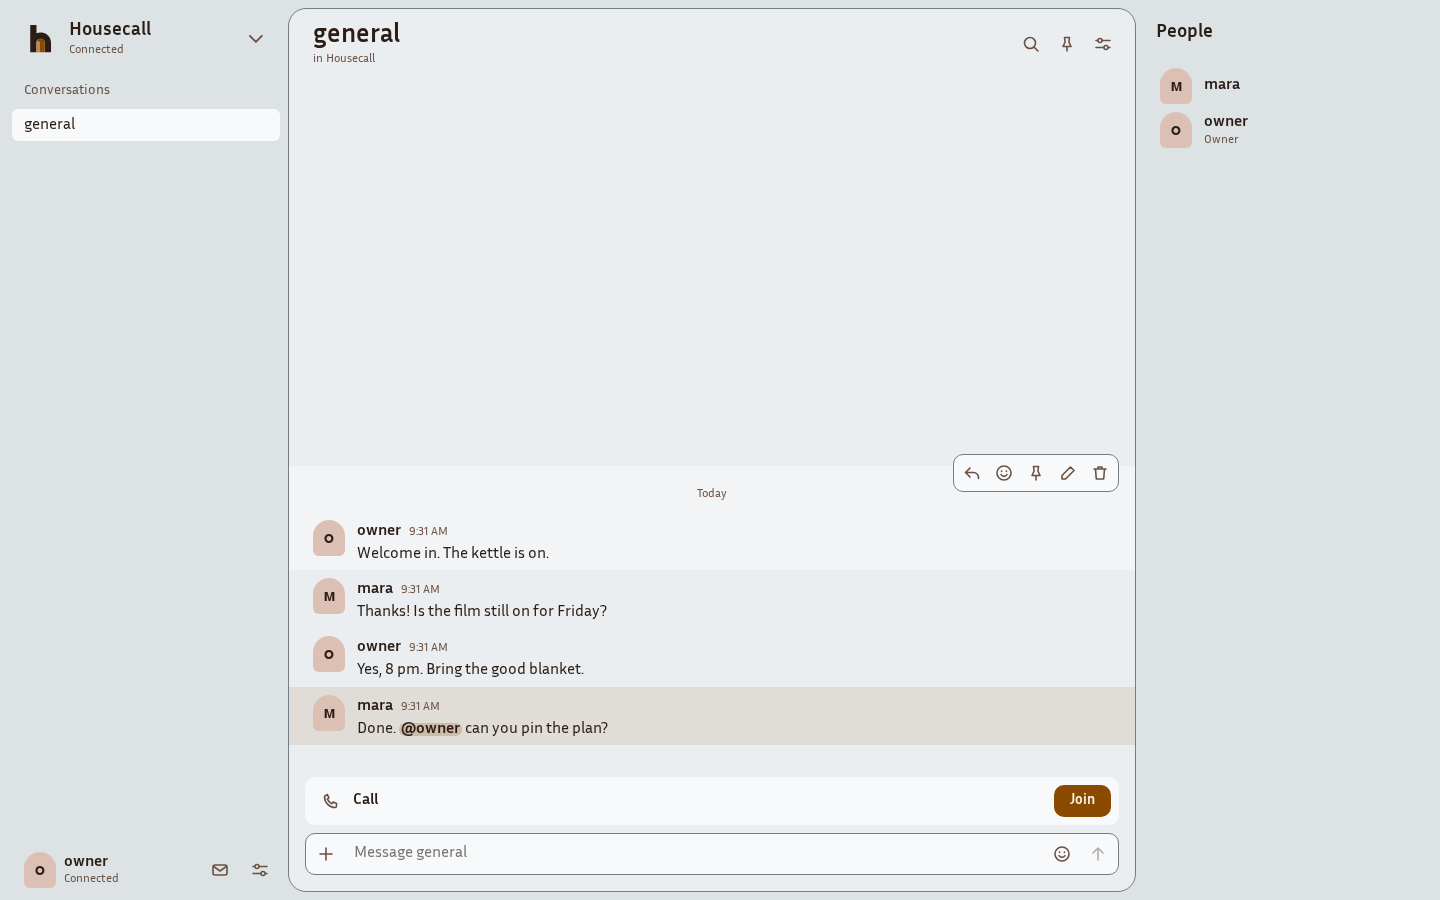
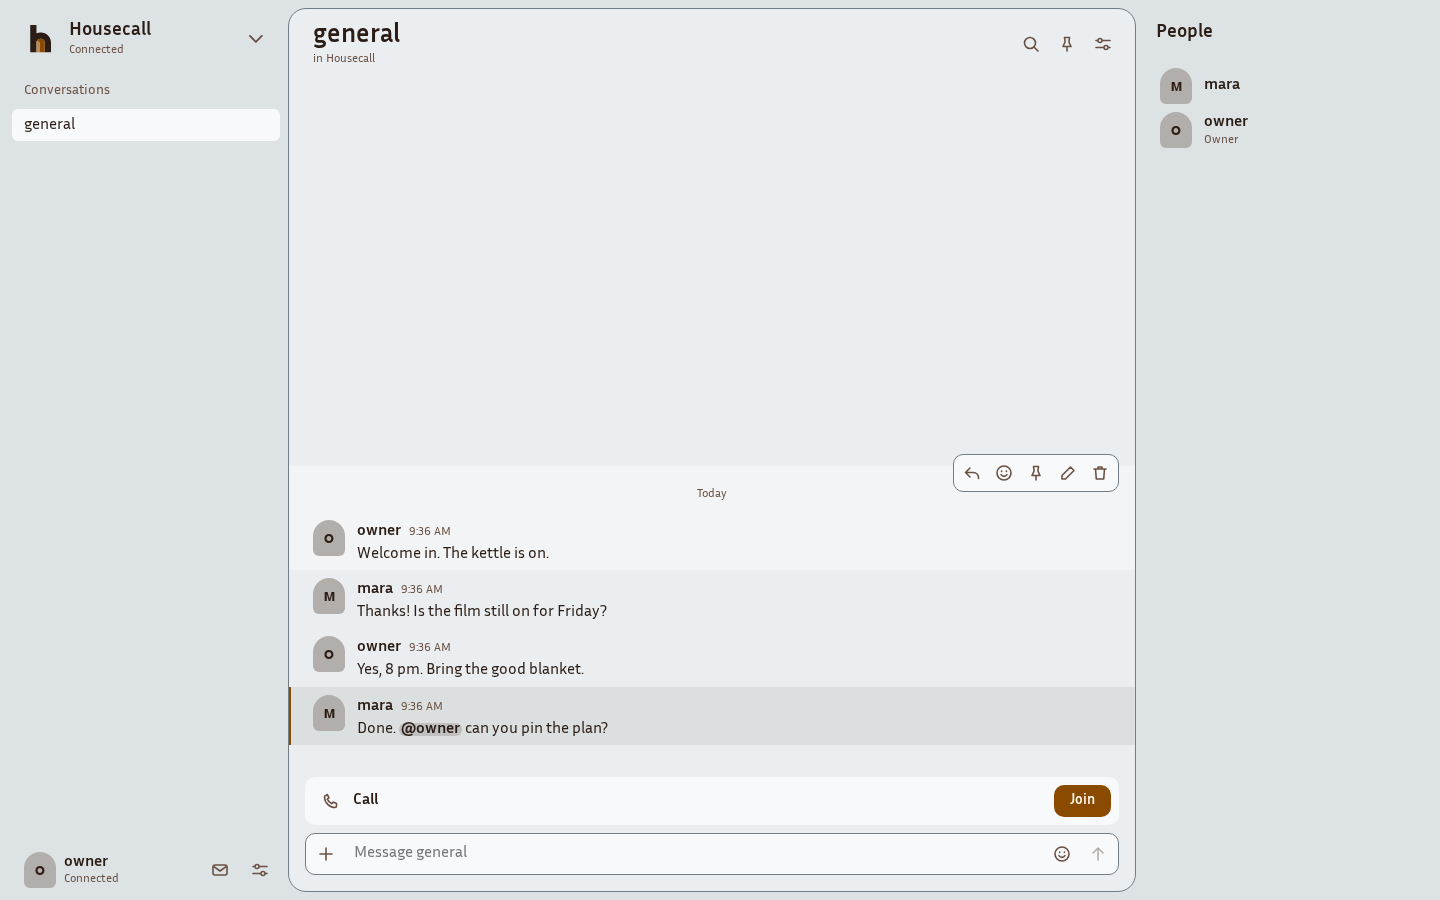
feat(ui): refresh shots for the neutral black dark scheme; handoff section

diff --git a/docs/design/HANDOFF.md b/docs/design/HANDOFF.md
@@ -68,3 +68,28 @@ Regenerate with `HOUSECALL_TEST_SHOTS=1 npm run e2e --prefix client` (not `HOUSE
 - Add Server with an address and with an invite link in the desktop build.
 - Settings sections and Chord panels with a configured Gimme, DJ and shared browser.
 - Safe-area insets and 44 px targets on an iPhone.
+
+## Neutral black dark scheme
+
+Owner decision (overrides the earlier warm charcoal): direction A dark is a neutral black. Light mode is unchanged. Directions B (neutral ink) and C (green-black) have no warm or brown dark ground, so they are unchanged.
+
+| Token | Old | New |
+| --- | --- | --- |
+| `--hc-bg` | `#171311` | `#0c0c0c` |
+| `--hc-surface` | `#1f1a17` | `#151515` |
+| `--hc-surface-raised` | `#2b2420` | `#212121` |
+| `--hc-line` | `#786d64` | `#787878` |
+| `--hc-text` | `#f3ebe1` | `#ededed` |
+| `--hc-text-muted` | `#b3a597` | `#a6a6a6` |
+
+Accent, on-accent, live, danger and focus are unchanged. The accent is no longer mixed into any surface: avatar faces, the mention row, `@me` chip and own reactions now step in lightness from `--hc-text`. The mention row keeps a 2px solid accent rail on its left edge.
+
+Computed WCAG contrast:
+
+| Pair | bg | surface | raised |
+| --- | --- | --- | --- |
+| text | 16.71 | 15.60 | 13.75 |
+| text-muted | 8.04 | 7.50 | 6.61 |
+| line | 4.43 | 4.14 | 3.65 |
+
+Also: `--hc-on-accent` on `--hc-accent` 8.74; `--hc-danger` on surface 7.43. The app icon source (`src-tauri/icons/housecall.svg`) and `logo.svg` use the new ground and ink; icons were regenerated with `tauri icon`. `index.html` has no theme-color, there is no web manifest, `tauri.conf.json` sets no window background, and the iOS launch screen uses the system background colour, so nothing else repeated the brown.
